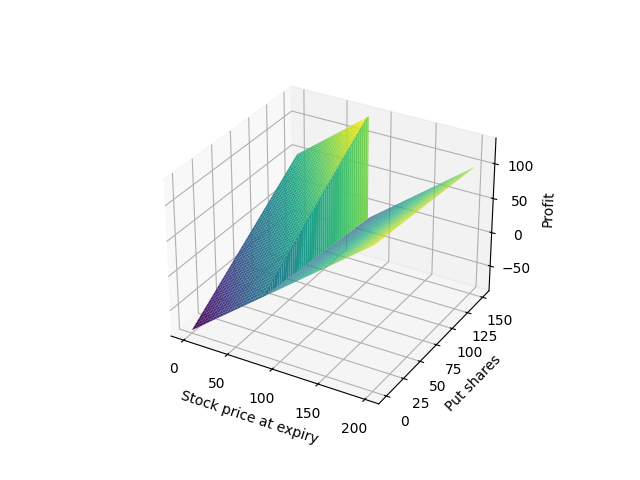
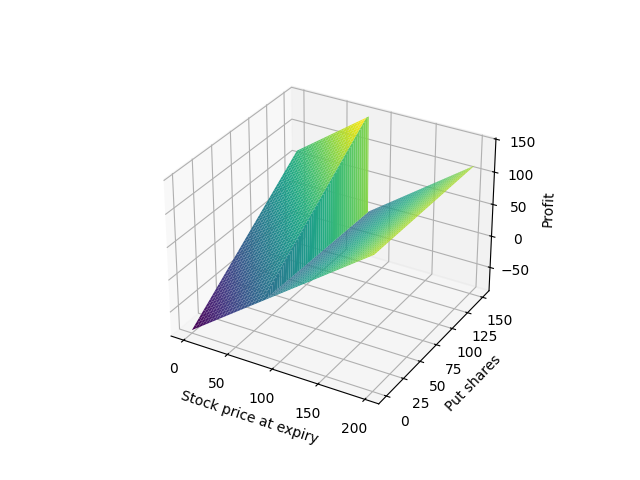
new plot

diff --git a/plotting.py b/plotting.py
@@ -4,7 +4,7 @@ import numpy as np
 K = 83          # binary put strike
 HEDGE_SHARES = [0, 40, 83, 95.4, 150]     # shares purchased
 S0 = 83        # price paid for the stock
-HEDGE_PRICE = 0.12 # prediction market hsare price
+HEDGE_PRICE = 0.02 # prediction market hsare price
 
 for hedge_share in HEDGE_SHARES:
     premium = hedge_share * HEDGE_PRICE
